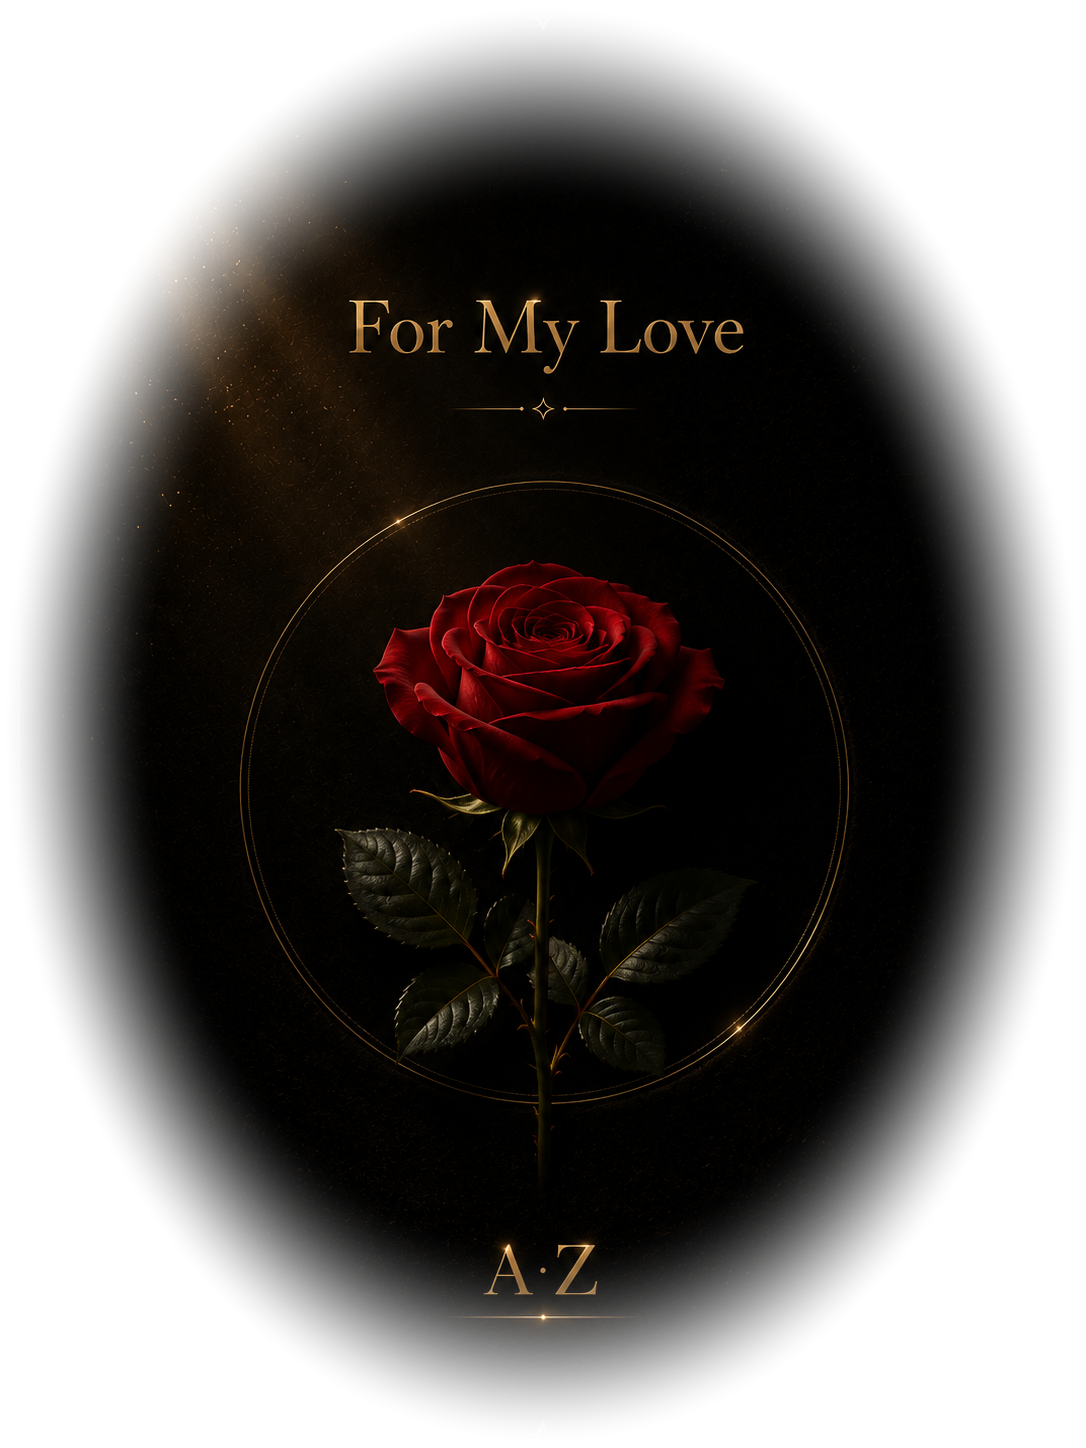
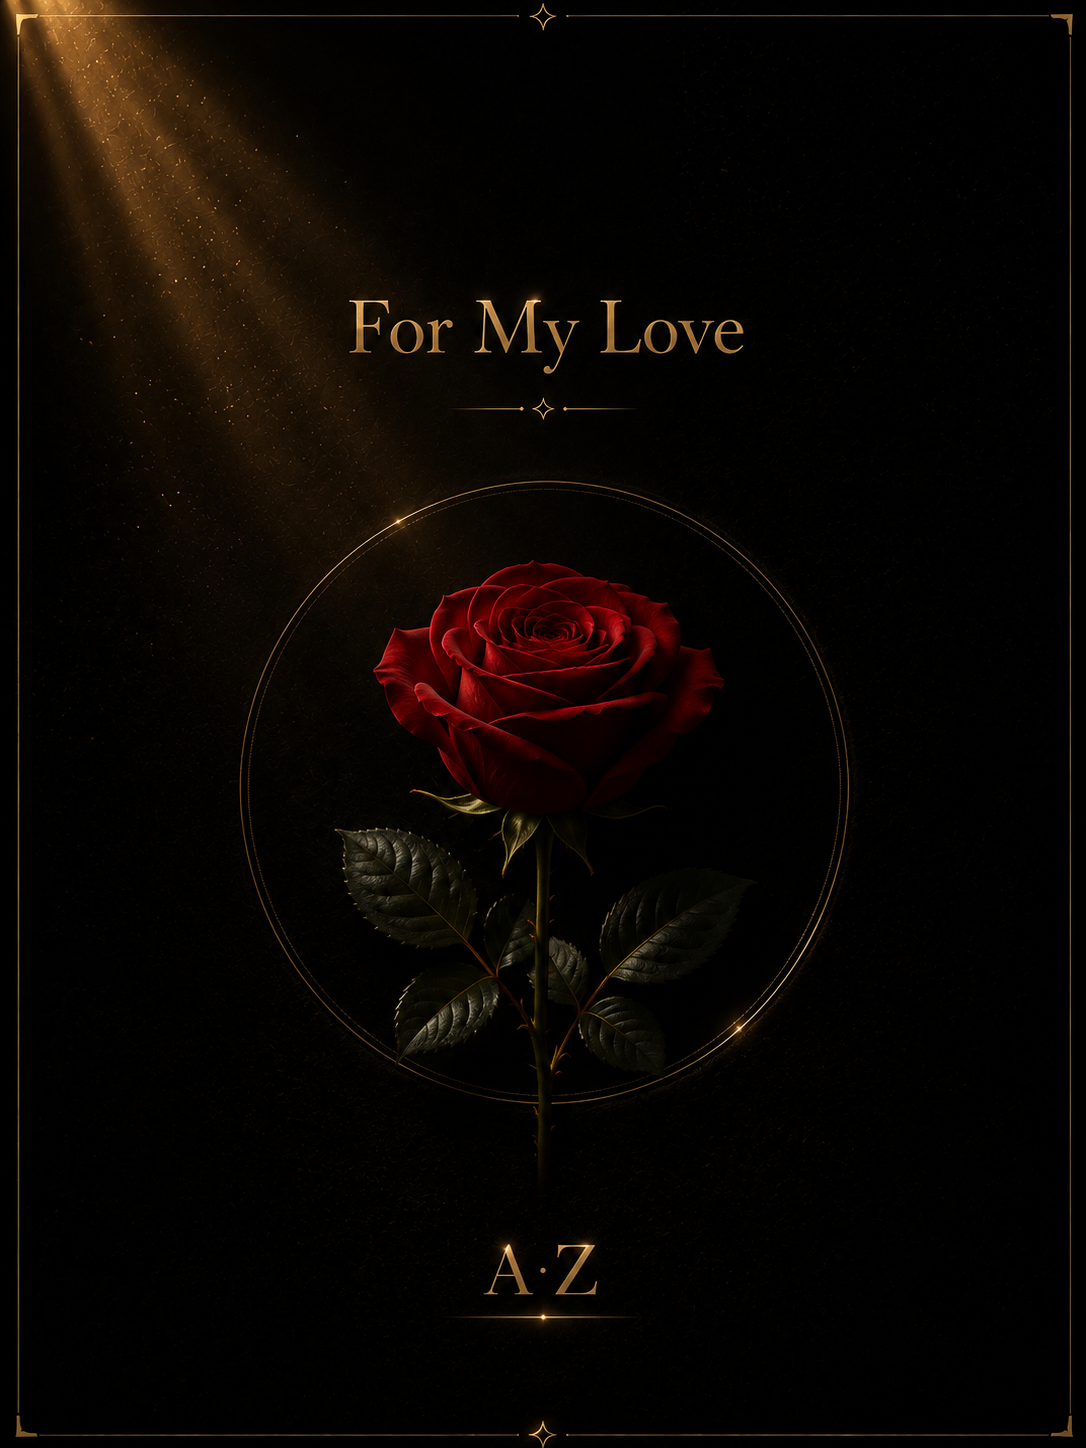
Birthday: restore original rose card, drop bag model text, English surprise
- Rose card back to its original framed design (crisp card, gold
  sheen sweep, rectangular pulse outline) — the faded version lost
  its luxury
- Remove 'Armani Exchange / Logo Top-Handle · Nero' caption to keep
  the reveal minimal
- 'سوپرایز 😂🎉' → italic serif 'surprise… 😂🎉'

Claude-Session: https://claude.ai/code/session_011BgLGicRivibMALvqARCmN

diff --git a/birthday.html b/birthday.html
@@ -126,17 +126,21 @@
     .rose-btn{background:none;border:0;cursor:pointer;padding:0;position:relative;
       animation:floaty 5s ease-in-out infinite;
       transition:transform 1s var(--ease),opacity .9s var(--ease)}
-    .rose-btn img{display:block;width:clamp(230px,60vw,330px);height:auto;
-      filter:drop-shadow(0 26px 60px rgba(0,0,0,.6)) drop-shadow(0 0 46px rgba(220,192,138,.14))}
+    .rose-btn img{display:block;width:clamp(230px,60vw,330px);height:auto;border-radius:10px;
+      box-shadow:0 30px 80px rgba(0,0,0,.65),0 0 70px rgba(220,192,138,.14)}
     .rose-halo{position:absolute;inset:-22%;z-index:-1;border-radius:50%;
       background:radial-gradient(circle,rgba(220,192,138,.24) 0%,rgba(184,151,92,.08) 42%,transparent 68%);
       animation:halo 5s ease-in-out infinite}
     @keyframes halo{0%,100%{opacity:.6;transform:scale(.96)}50%{opacity:1;transform:scale(1.04)}}
-    /* subtle pulsing gold ring to hint it's tappable — no text needed */
-    .rose-tap-ring{position:absolute;inset:2% 6%;border-radius:50%;border:1px solid rgba(220,192,138,.0);
+    .rose-btn::after{content:"";position:absolute;inset:0;border-radius:10px;overflow:hidden;pointer-events:none;
+      background:linear-gradient(115deg,transparent 30%,rgba(255,243,214,.14) 46%,rgba(255,243,214,.05) 52%,transparent 62%);
+      background-size:260% 100%;animation:sheen 5.5s ease-in-out infinite}
+    @keyframes sheen{0%,55%{background-position:130% 0}90%,100%{background-position:-70% 0}}
+    /* subtle pulsing gold outline to hint it's tappable — no text needed */
+    .rose-tap-ring{position:absolute;inset:-8px;border-radius:14px;border:1px solid rgba(220,192,138,.0);
       animation:rose-ring 3s ease-in-out infinite;pointer-events:none}
     @keyframes rose-ring{0%,100%{border-color:rgba(220,192,138,.0);box-shadow:none}
-      50%{border-color:rgba(220,192,138,.45);box-shadow:0 0 28px rgba(220,192,138,.16)}}
+      50%{border-color:rgba(220,192,138,.55);box-shadow:0 0 28px rgba(220,192,138,.18)}}
     /* floating hearts & sparkles around the rose */
     .stick{position:absolute;pointer-events:none;font-size:var(--fs,18px);
       left:var(--x);top:var(--y);opacity:0;
@@ -165,8 +169,9 @@
       -webkit-background-clip:text;background-clip:text;-webkit-text-fill-color:transparent;
       opacity:0;transform:translateY(10px);transition:opacity 1s var(--ease) .3s,transform 1s var(--ease) .3s}
     .gift-reveal.on .hb-script{opacity:1;transform:none}
-    .reveal-line{font-family:var(--fa);direction:rtl;font-weight:400;font-size:clamp(15px,2.6vw,19px);
-      color:var(--ink2);margin-top:12px;opacity:0;transition:opacity 1s var(--ease) .55s}
+    .reveal-line{font-family:var(--serif);font-style:italic;font-weight:500;letter-spacing:.05em;
+      font-size:clamp(19px,3.6vw,26px);color:var(--ink2);margin-top:12px;
+      opacity:0;transition:opacity 1s var(--ease) .55s}
     .gift-reveal.on .reveal-line{opacity:1}
 
     .gift{--w:min(250px,56vw);position:relative;margin:26px auto 30px;width:var(--w);aspect-ratio:3/4;
@@ -230,9 +235,7 @@
     .gift-cap{margin-top:20px;opacity:0;transform:translateY(10px);
       transition:opacity 1s var(--ease),transform 1s var(--ease)}
     .gift-cap.on{opacity:1;transform:none}
-    .gift-name{font-family:var(--serif);font-weight:500;font-size:clamp(23px,4vw,32px)}
-    .gift-sub{font-size:11px;letter-spacing:.22em;text-transform:uppercase;color:var(--gold2);margin-top:8px}
-    .cap-div{display:flex;align-items:center;gap:12px;justify-content:center;margin-top:16px;color:var(--gold)}
+    .cap-div{display:flex;align-items:center;gap:12px;justify-content:center;color:var(--gold)}
     .cap-div::before,.cap-div::after{content:"";width:44px;height:1px;background:linear-gradient(90deg,transparent,var(--gold));display:block}
     .cap-div::after{background:linear-gradient(90deg,var(--gold),transparent)}
     .gift-fa{font-family:var(--nastaliq);direction:rtl;color:var(--gold2);font-size:clamp(21px,4.2vw,32px);margin-top:14px}
@@ -392,7 +395,7 @@
         <circle cx="2" cy="6" r="2" fill="#dcc08a"/><circle cx="24" cy="3" r="2" fill="#fff3d6"/><circle cx="46" cy="6" r="2" fill="#dcc08a"/>
       </svg>
       <p class="hb-script">Happy Birthday</p>
-      <p class="reveal-line">سوپرایز 😂🎉</p>
+      <p class="reveal-line">surprise… 😂🎉</p>
 
       <div class="gift" id="gift">
         <div class="spot" aria-hidden="true"></div>
@@ -425,8 +428,6 @@
       </div>
 
       <div class="gift-cap" id="gcap">
-        <div class="gift-name">Armani Exchange</div>
-        <div class="gift-sub">Logo Top-Handle · Nero</div>
         <div class="cap-div">✦</div>
         <p class="gift-en">for the greatest love<br />the world has ever known 🤍</p>
         <button class="btn" id="morebtn" style="display:none">a beautiful memory…</button>
